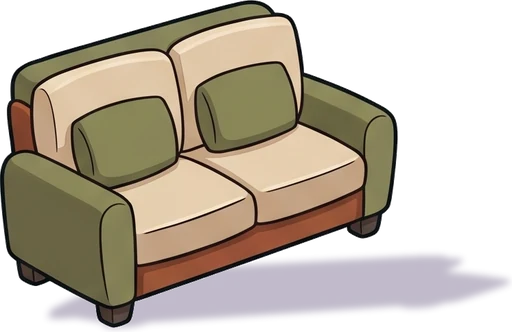
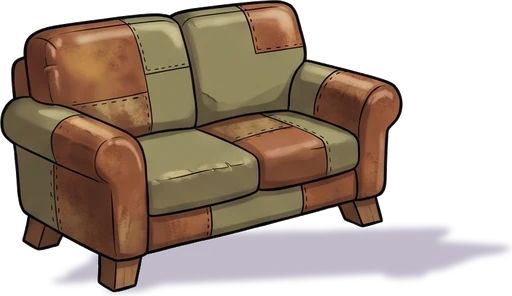
feat: Travel Journal room with the bed, wardrobe, desk and shelves drawn in; its sofa and armchair face the viewer
All six themes now have their furniture drawn in. The movable-furniture
tests that needed a movable corner room are removed, with cornerRoom.

diff --git a/src/data/roomPlacement.test.ts b/src/data/roomPlacement.test.ts
@@ -217,7 +217,7 @@ describe('a room with its furniture drawn in', () => {
       expect(piece.standAt.y, piece.id).toBeGreaterThan(lineYAt(baked.freeFloorEdge, piece.standAt.x));
       expect(piece.bubbleAt.y, piece.id).toBeLessThan(piece.standAt.y);
     });
-    expect(getFixedFurniture(getRoomGeometry('travel-journal'))).toEqual([]);
+    expect(getFixedFurniture(getRoomGeometry(undefined))).toEqual([]);
   });
 
   it('has no movable bed, wardrobe or desk, and no big piece can be turned', () => {
@@ -505,85 +505,6 @@ describe('mission objects and the desk', () => {
     });
   });
 
-  describe('turning big items to the other wall', () => {
-    const travel = { ...baseProfile, themeId: 'travel-journal' } as LearnerProfile;
-    const { cornerX } = getRoomGeometry('travel-journal');
-    const sofaOnRightWall = placeRoomItemAt(travel, 'room-sofa', { x: 75, y: 88 }, NOW);
-
-    it('marks only furniture with a front and a side as turnable', () => {
-      ['room-sofa', 'object:bed', 'object:wardrobe', 'object:desk'].forEach((key) =>
-        expect(findEntry(key === 'room-sofa' ? sofaOnRightWall : travel, key)?.canRotate, key).toBe(true)
-      );
-      expect(findEntry(travel, 'object:phone')?.canRotate).toBe(false);
-      expect(findEntry(placeRoomItemAt(travel, 'room-books', { x: 70, y: 40 }, NOW), 'room-books')?.canRotate).toBe(false);
-    });
-
-    it('knows which wall a big item stands against from where it stands', () => {
-      expect(findEntry(sofaOnRightWall, 'room-sofa')?.isOnLeftWall).toBe(false);
-      // by default the bed and the wardrobe stand along the left wall, the desk along the right one
-      expect(findEntry(travel, 'object:bed')?.isOnLeftWall).toBe(true);
-      expect(findEntry(travel, 'object:wardrobe')?.isOnLeftWall).toBe(true);
-      expect(findEntry(travel, 'object:desk')?.isOnLeftWall).toBe(false);
-    });
-
-    it('turns an item where it stands: only the picture changes wall, and turning twice turns it back', () => {
-      const before = findEntry(sofaOnRightWall, 'room-sofa')!;
-      const turned = findEntry(turnRoomItem(sofaOnRightWall, 'room-sofa', NOW), 'room-sofa')!;
-      expect(turned.isOnLeftWall).toBe(true);
-      expect(turned.point.x).toBeCloseTo(before.point.x);
-      expect(turned.point.x).toBeGreaterThan(cornerX);
-      const back = findEntry(turnRoomItem(turnRoomItem(sofaOnRightWall, 'room-sofa', NOW), 'room-sofa', NOW), 'room-sofa')!;
-      expect(back.isOnLeftWall).toBe(false);
-    });
-
-    it('never turns an item that is moved, even across the corner: only the learner turns it', () => {
-      const movedSofa = placeRoomItemAt(sofaOnRightWall, 'room-sofa', { x: 20, y: 92 }, NOW);
-      expect(findEntry(movedSofa, 'room-sofa')!.point.x).toBeLessThan(cornerX);
-      expect(findEntry(movedSofa, 'room-sofa')!.isOnLeftWall).toBe(false);
-      const movedDesk = moveRoomObject(travel, 'desk', { x: 20, y: 95 }, NOW);
-      expect(findEntry(movedDesk, 'object:desk')!.isOnLeftWall).toBe(false);
-      const turnedThenMoved = moveRoomObject(turnRoomItem(travel, 'object:desk', NOW), 'desk', { x: 85, y: 95 }, NOW);
-      expect(findEntry(turnedThenMoved, 'object:desk')!.isOnLeftWall).toBe(true);
-    });
-
-    it('keeps a turned item on the floor, below the baseboard', () => {
-      const geometry = getRoomGeometry('travel-journal');
-      ['room-sofa', 'object:bed', 'object:wardrobe', 'object:desk'].forEach((key) => {
-        const profile = turnRoomItem(key === 'room-sofa' ? sofaOnRightWall : travel, key, NOW);
-        const entry = findEntry(profile, key)!;
-        expect(entry.point.y, key).toBeGreaterThanOrEqual(floorEdgeY(geometry, entry.point.x));
-        expect(entry.item.slotKind, key).toBe('floor');
-      });
-    });
-
-    it('turns the desk with what lies on it', () => {
-      const turned = turnRoomItem(travel, 'object:desk', NOW);
-      const desk = findEntry(turned, 'object:desk')!;
-      expect(desk.isOnLeftWall).toBe(true);
-      const phone = findEntry(turned, 'object:phone')!;
-      expect(phone.item.slotKind).toBe('desk');
-      expect(Math.abs(phone.point.x - desk.point.x)).toBeLessThan(9);
-    });
-
-    it('leaves items that cannot turn, and unknown keys, unchanged', () => {
-      expect(turnRoomItem(travel, 'object:phone', NOW)).toBe(travel);
-      expect(turnRoomItem(travel, 'nope', NOW)).toBe(travel);
-    });
-  });
-
-  it('puts the book on the desk top when it is let go anywhere over the desk, even nearer the floor behind it', () => {
-    const profile = { ...baseProfile, themeId: 'travel-journal' } as LearnerProfile;
-    const layout = getRoomLayout(profile);
-    const top = getDeskTopPoint(layout.deskPoint, layout.geometry, layout.deskShape);
-    // over the back corner of the desk top, close to the baseboard behind the desk
-    const overBackCorner = { x: layout.deskPoint.x - 9, y: top.y - 6 };
-    const book = findEntry(moveRoomObject(profile, 'games-book', overBackCorner, NOW), 'object:games-book')!;
-    expect(book.item.slotKind).toBe('desk');
-    const [deskTop] = getSurfaces('desk', layout);
-    expect(isInConvexPolygon(deskTop.area!, book.point)).toBe(true);
-    expect(Math.abs(book.point.y - top.y)).toBeLessThan(8);
-  });
-
   it('lets small things stand anywhere on the drawn desk top, but not off its edges', () => {
     const profile = { ...baseProfile, themeId: 'travel-journal' } as LearnerProfile;
     const layout = getRoomLayout(profile);
@@ -593,22 +514,6 @@ describe('mission objects and the desk', () => {
     const offTheEdge = snapToSurface('desk', { x: deskTop.xMax + 10, y: deskTop.yMin - 10 }, { layout }).point;
     expect(isInConvexPolygon(deskTop.area!, offTheEdge)).toBe(true);
     expect(isInConvexPolygon(deskTop.outline!, offTheEdge)).toBe(true);
-  });
-
-  it('outlines the drop zone on the desk as the drawn desk top, turned the way the desk is turned', () => {
-    const profile = { ...baseProfile, themeId: 'travel-journal' } as LearnerProfile;
-    const outlineOf = (p: LearnerProfile) => getSurfaces('desk', getRoomLayout(p))[0].outline!;
-    const facingRight = outlineOf(profile);
-    const turned = turnRoomItem(profile, 'object:desk', NOW);
-    const facingLeft = outlineOf(turned);
-    const deskX = getRoomLayout(turned).deskPoint.x;
-    expect(facingRight).toHaveLength(4);
-    // the back corner of the top is toward the corner: left of the middle against the right wall, right of it when turned
-    expect(facingRight[1].x).toBeLessThan(getRoomLayout(profile).deskPoint.x);
-    expect(facingLeft[1].x).toBeGreaterThan(deskX);
-    const top = getDeskTopPoint(getRoomLayout(turned).deskPoint, getRoomGeometry('travel-journal'), getRoomLayout(turned).deskShape);
-    expect(Math.min(...facingLeft.map((c) => c.y))).toBeLessThan(top.y);
-    expect(Math.max(...facingLeft.map((c) => c.y))).toBeGreaterThan(top.y);
   });
 
   it('snaps to the nearest surface across several kinds', () => {

diff --git a/src/data/roomGeometry.ts b/src/data/roomGeometry.ts
@@ -247,78 +247,9 @@ export const LEGACY_GEOMETRY: RoomGeometry = {
   avatarHome: { x: 50, y: 68 },
 };
 
-interface CornerRoom {
-  cornerX: number;
-  /** The window with its curtains, as drawn in the room picture */
-  window: Box;
-  /** Baseboard y at the left edge, at the corner and at the right edge */
-  edge: [number, number, number];
-  /** The window sill line under the window */
-  sill: { xMin: number; xMax: number; y: number };
-}
-
 /** The floor runs to the bottom of the picture: feet can stand almost there. */
 const FLOOR_MAX_Y = 98;
-/** A hanging item is about this wide: its centre stays this far from the window's edge. */
-const WALL_ITEM_CLEARANCE = 5;
-const WALL_LEFT_X_MIN = 3;
-/** Narrower than this and the strip beside the window is no place to hang anything. */
-const WALL_LEFT_MIN_SPAN = 3;
-
-/** The strip of the left wall beside the window where wall items can hang, or null when there is none. */
-function getWallLeft(window: Box): Box | null {
-  const xMax = window.xMin - WALL_ITEM_CLEARANCE;
-  return xMax - WALL_LEFT_X_MIN >= WALL_LEFT_MIN_SPAN ? { xMin: WALL_LEFT_X_MIN, xMax, yMin: 10, yMax: 30 } : null;
-}
 const FLOOR_MARGIN_X = 2;
-/** How far (scene %) above the baseboard at the corner the shelf planks hang */
-const SHELF_HIGH_ABOVE_CORNER = 44;
-const SHELF_LOW_ABOVE_CORNER = 29;
-const BED_X = 21;
-const WARDROBE_FROM_CORNER = 11;
-
-/**
- * A corner room: shelves, the board and a hanging zone on the plain right wall, a hanging zone on
- * the left wall, the sill under the window, big furniture standing along the walls.
- */
-function cornerRoom({ cornerX, window, edge: [yLeft, yCorner, yRight], sill }: CornerRoom): RoomGeometry {
-  const floorEdge = [
-    { x: 0, y: yLeft },
-    { x: cornerX, y: yCorner },
-    { x: 100, y: yRight },
-  ];
-  const partial = { floorEdge } as RoomGeometry;
-  const edgeAt = (x: number) => floorEdgeY(partial, x);
-  const stand = (x: number, depth: number): ScenePoint => ({ x, y: Math.min(FLOOR_MAX_Y - 2, edgeAt(x) + depth) });
-  const shelfX = { xMin: cornerX + 4, xMax: cornerX + 22 };
-  const deskX = cornerX + 19;
-  return {
-    cornerX,
-    floorEdge,
-    floorMinY: Math.min(yLeft, yCorner, yRight) + FLOOR_EDGE_CLEARANCE,
-    floorMaxY: FLOOR_MAX_Y,
-    floorXMin: FLOOR_MARGIN_X,
-    floorXMax: 100 - FLOOR_MARGIN_X,
-    window,
-    wallLeft: getWallLeft(window),
-    // The shelves take the wall high up by the corner: things hang beside them, under the board
-    wallRight: { xMin: cornerX + 26, xMax: 95, yMin: 40, yMax: 46 },
-    board: { xMin: cornerX + 26, xMax: 95, yMin: 16, yMax: 30 },
-    shelves: [
-      { id: 'shelf-high', ...shelfX, y: yCorner - SHELF_HIGH_ABOVE_CORNER },
-      { id: 'shelf-low', ...shelfX, y: yCorner - SHELF_LOW_ABOVE_CORNER },
-      { id: 'window-sill', ...sill },
-    ],
-    // The right wall is only about 40% wide: the desk takes it, the bed and the wardrobe stand along the left wall
-    defaults: {
-      desk: stand(deskX, 14),
-      bed: stand(BED_X, 12),
-      wardrobe: stand(cornerX - WARDROBE_FROM_CORNER, 12),
-      gamesBook: stand(cornerX + 8, 24),
-    },
-    avatarHome: stand(cornerX - 6, 26),
-  };
-}
 
 interface BakedRoom {
   cornerX: number;
@@ -639,7 +570,63 @@ const ROOM_GEOMETRY: Record<ThemeId, RoomGeometry> = {
     gamesBook: { x: 55, y: 90 },
     avatarHome: { x: 50, y: 92 },
   }),
-  'travel-journal': cornerRoom({ cornerX: 55.5, window: { xMin: 8, xMax: 50, yMin: 2, yMax: 66 }, edge: [89, 63.5, 84], sill: { xMin: 25, xMax: 47, y: 56 } }),
+  'travel-journal': bakedRoom({
+    cornerX: 49.8,
+    window: { xMin: 22.5, xMax: 45.5, yMin: 14.5, yMax: 49 },
+    edge: [68.8, 51.8, 72],
+    wallLeft: null,
+    wallRight: { xMin: 53, xMax: 65, yMin: 23, yMax: 33 },
+    board: { xMin: 69, xMax: 78, yMin: 14, yMax: 20 },
+    shelves: [
+      { id: 'shelf-high', xMin: 67.5, xMax: 85, y: 27.2, tilt: 0.03 },
+      { id: 'shelf-low', xMin: 76, xMax: 95.5, y: 37.8, tilt: 0.06 },
+      { id: 'window-sill', xMin: 29, xMax: 40, y: 41.9, tilt: -0.05 },
+    ],
+    baked: {
+      roomPicture: '/art/travel-journal/room-baked.webp',
+      pieces: [
+        {
+          id: 'wardrobe',
+          tapArea: [{ x: 1.5, y: 28 }, { x: 7, y: 26.6 }, { x: 22.8, y: 26.8 }, { x: 22.8, y: 72.3 }, { x: 8.2, y: 78.3 }, { x: 6, y: 78.3 }, { x: 1.5, y: 73 }],
+          standAt: { x: 16, y: 84 },
+          bubbleAt: { x: 12, y: 24 },
+        },
+        {
+          id: 'bed',
+          tapArea: [{ x: 23, y: 52 }, { x: 26, y: 49.5 }, { x: 42, y: 47 }, { x: 48.8, y: 44 }, { x: 49.2, y: 38.8 }, { x: 50.5, y: 38.5 }, { x: 55, y: 39.5 }, { x: 62, y: 40.5 }, { x: 62, y: 59.5 }, { x: 35.3, y: 71.8 }, { x: 32.6, y: 71.8 }, { x: 32.6, y: 68.5 }, { x: 23, y: 64.5 }],
+          standAt: { x: 42, y: 79 },
+          bubbleAt: { x: 55, y: 35 },
+        },
+        {
+          id: 'desk',
+          tapArea: [{ x: 69.8, y: 51.7 }, { x: 77.9, y: 48.2 }, { x: 98, y: 52.8 }, { x: 98, y: 55 }, { x: 96.8, y: 72.5 }, { x: 91, y: 77.5 }, { x: 89, y: 77.5 }, { x: 72.5, y: 69.5 }, { x: 70.8, y: 69.5 }, { x: 69.8, y: 53.5 }],
+          standAt: { x: 80, y: 85 },
+          bubbleAt: { x: 88, y: 46 },
+        },
+      ],
+      freeFloorEdge: [
+        { x: 0, y: 72.5 },
+        { x: 1.5, y: 72.5 },
+        { x: 6, y: 78.5 },
+        { x: 8.2, y: 78.5 },
+        { x: 22.8, y: 72.5 },
+        { x: 23.4, y: 64.5 },
+        { x: 32.6, y: 72 },
+        { x: 35.3, y: 72 },
+        { x: 60.5, y: 59.3 },
+        { x: 61, y: 56.4 },
+        { x: 70.3, y: 60.3 },
+        { x: 70.8, y: 69.6 },
+        { x: 89, y: 77.6 },
+        { x: 91, y: 77.6 },
+        { x: 96.8, y: 72.6 },
+        { x: 100, y: 72.4 },
+      ],
+      deskTop: [{ x: 70.5, y: 51.8 }, { x: 77.9, y: 48.8 }, { x: 97, y: 53 }, { x: 90.7, y: 56.8 }],
+    },
+    gamesBook: { x: 55, y: 90 },
+    avatarHome: { x: 50, y: 92 },
+  }),
 };
 
 /** The room of a theme; the original room for a missing or unknown theme. */

diff --git a/src/components/room/RoomScene.test.tsx b/src/components/room/RoomScene.test.tsx
@@ -1,23 +1,12 @@
 import { render, screen } from '@testing-library/react';
 import { describe, expect, it } from 'vitest';
 import { getRoom } from '../../data/room';
-import { getPlacedRoomEntries, placeRoomItemAt, turnRoomItem } from '../../data/roomPlacement';
+import { getPlacedRoomEntries } from '../../data/roomPlacement';
 import { makeProfile } from '../../test/fixtures';
 import { AVATAR_HOME } from './roomLayout';
 import { RoomScene } from './RoomScene';
 
-const NOW = new Date('2026-10-29T10:00:00.000Z');
-
-/** A room whose furniture is movable (not drawn into the room picture). */
 const travelProfile = () => makeProfile({ themeId: 'travel-journal' });
-
-const profileWithSofa = () =>
-  placeRoomItemAt(
-    makeProfile({ themeId: 'travel-journal', unlockedRewardIds: ['room-sofa'], room: { ...getRoom(makeProfile()), placements: {} } }),
-    'room-sofa',
-    { x: 75, y: 88 },
-    NOW
-  );
 
 function renderScene(profile: ReturnType<typeof makeProfile>, moveRequestKey: string | null = null) {
   return render(
@@ -33,43 +22,10 @@ function renderScene(profile: ReturnType<typeof makeProfile>, moveRequestKey: st
   );
 }
 
-/** The picture an item's button shows. */
-function pictureOf(name: string): string | null {
-  return screen.getByRole('button', { name }).querySelector('img')?.getAttribute('src') ?? null;
-}
-
-describe('RoomScene turned items', () => {
-  it('shows the right-wall sofa picture, and the left-wall picture once the sofa is turned to the other wall', () => {
-    const profile = profileWithSofa();
-    const { unmount } = renderScene(profile);
-    expect(pictureOf('sofa · ספה')).toBe('/art/room/travel-journal/room-sofa.webp');
-    unmount();
-
-    renderScene(turnRoomItem(profile, 'room-sofa', NOW));
-    expect(pictureOf('sofa · ספה')).toBe('/art/room/travel-journal/room-sofa-b.webp');
-  });
-});
-
 describe('RoomScene moving the games book', () => {
   it('shows both the floor and the desk top as places for the book', () => {
     const { container } = renderScene(travelProfile(), 'object:games-book');
     expect(container.querySelectorAll('[data-zone]')).toHaveLength(2);
-  });
-
-  it('shows only the floor as a place for the bed', () => {
-    const { container } = renderScene(travelProfile(), 'object:bed');
-    expect(container.querySelectorAll('[data-zone]')).toHaveLength(1);
-  });
-
-  it('outlines a corner room floor along its baseboard, down to the bottom of the picture', () => {
-    const { container } = renderScene(travelProfile(), 'object:bed');
-    const outline = container.querySelector('[data-zone="floor"] polygon')?.getAttribute('points') ?? '';
-    const points = outline.split(' ').map((pair) => pair.split(',').map(Number));
-    expect(points.length).toBeGreaterThan(10);
-    expect(points[points.length - 1]).toEqual([0, 100]);
-    // the baseboard is highest at the corner, so the outline is not a level line
-    const ys = points.slice(0, -2).map(([, y]) => y);
-    expect(Math.max(...ys) - Math.min(...ys)).toBeGreaterThan(5);
   });
 });
 

diff --git a/src/data/roomArtManifest.ts b/src/data/roomArtManifest.ts
@@ -218,10 +218,10 @@ export const ROOM_ART: Record<string, Record<string, RoomArtSprite>> = {
     'furniture-shelf-low': { aspect: 2.1245, left: 0.0, right: 1.0, top: 0.0, bottom: 1.0, slope: -0.297 },
     'furniture-sill': { aspect: 1.9339, left: 0.0, right: 1.0, top: 0.0, bottom: 1.0, slope: 0.369 },
     'furniture-board': { aspect: 0.8596, left: 0.0, right: 1.0, top: 0.0, bottom: 1.0, slope: -0.378 },
-    'room-sofa': { aspect: 1.5851, left: 0.0, right: 0.7562, top: 0.0, bottom: 0.9876, slope: 0.333 },
-    'room-sofa-b': { aspect: 1.5422, left: 0.0, right: 0.7775, top: 0.0, bottom: 0.9876, slope: -0.335 },
-    'room-chair': { aspect: 1.3438, left: 0.0, right: 0.6756, top: 0.0, bottom: 0.9865, slope: 0.299 },
-    'room-chair-b': { aspect: 1.2427, left: 0.0, right: 0.7306, top: 0.0, bottom: 0.9865, slope: -0.345 },
+    'room-sofa': { aspect: 1.7297, left: 0.0, right: 0.7868, top: 0.0, bottom: 0.9876, slope: 0.0 },
+    'room-sofa-b': { aspect: 1.7297, left: 0.0, right: 0.7868, top: 0.0, bottom: 0.9876, slope: 0.0 },
+    'room-chair': { aspect: 1.3299, left: 0.0, right: 0.7528, top: 0.0, bottom: 0.9872, slope: 0.0 },
+    'room-chair-b': { aspect: 1.3299, left: 0.0, right: 0.7528, top: 0.0, bottom: 0.9872, slope: 0.0 },
     'object-bed': { aspect: 1.6, left: 0.0, right: 0.7224, top: 0.0, bottom: 0.9881, slope: 0.417 },
     'object-bed-b': { aspect: 1.4183, left: 0.0, right: 0.8154, top: 0.0, bottom: 0.9881, slope: -0.424 },
     'object-wardrobe': { aspect: 1.1204, left: 0.0, right: 0.5755, top: 0.0, bottom: 0.9903, slope: 0.306 },

diff --git a/scripts/art/process_room_art.py b/scripts/art/process_room_art.py
@@ -85,6 +85,8 @@ FRONT_PICKS = {
     'focus-desk/room-chair': 2,
     'urban-night/room-sofa': 3,
     'urban-night/room-chair': 4,
+    'travel-journal/room-sofa': 4,
+    'travel-journal/room-chair': 3,
 }
 SHADOW_SQUASH = 0.22  # the shadow's height as a share of the object's (light from high up on the left)
 SHADOW_LEAN = 0.55  # pixels to the right per pixel of the object's height

diff --git a/docs/architecture.md b/docs/architecture.md
@@ -195,7 +195,7 @@ Each learning mission consists of 5 pedagogical drill stages:
 
 ### 4.12. My English Room (`room.ts`, `wardrobe.ts`, `roomRewards.ts`, `roomActivities.ts`, `voiceMessages.ts`, `dreamJournal.ts`, `wordGames.ts`, `stickers.ts`, `components/room/`)
 - The "החדר שלי" home dock tile opens the room full-screen; its dot shows while an earned item waits to be placed.
-- **The room** (`RoomScene`): a drawn wall/floor scene, drawn furniture (`public/art/room/*.webp`: two shelves, the window sill, the desk and the sticker board, made with `scripts/art/renderRoomFurniture.mjs` and `scripts/art/process_room_furniture.py`; `FURNITURE_PIECES` in `roomLayout.ts`) and four mission objects: 🛏 bed, 📱 phone, 🚪 wardrobe, 📖 Games Book. **Free placement** (`data/roomPlacement.ts`): items stand on *surfaces* (`ROOM_SURFACES`: wall-left/right, board, shelf-high, shelf-low, window-sill, desk-top, floor), each for one `slotKind`. A point is the item's feet (shelf, desk, floor) or centre (wall, board), in scene %. `snapToSurface` puts any point on the nearest surface of the item's kind, `findFreePoint` moves a drop off other items, floor items scale with depth (`getDepthScale`), and a soft shadow sits under standing items. **Moving**: drag with mouse or touch (`useRoomItemDrag`, 6 px threshold so a tap still taps; the surfaces show as dashed zones while dragging), or with the keyboard: focus an item or press "הזזה", arrows move, Up/Down or PageUp/PageDown change surface, Enter drops, Esc cancels, with a Hebrew live announcement. **Everything is movable**: the mission objects (bed, wardrobe, phone, games book) and the desk are entries too (key `object:<id>`, `room.positions`; `moveRoomObject` / `moveRoomEntry`, defaults in `getPlacedRoomEntries`). Big furniture (bed, wardrobe, desk, sofa) stands on the floor surface (feet at the floor depth, width-aware edge and overlap rules, `getItemWidth` gives believable relative sizes), and the desk top is a surface that follows the desk (`getRoomLayout`, `getDeskTopPoint`): moving the desk carries the phone and the small items on it. The icons have transparent padding, so the scene anchors an item's feet and its contact shadow on the drawn object's visible bottom (`data/roomIconBounds.ts`, generated by `python scripts/art/measure_icon_bounds.py` from the icon alpha; re-run it when a room item gets a new icon): the shadow is an ellipse 70% of the footprint, centred on the feet. z-order follows the feet's y, with desk items above the desk. Tapping the stickers button with no stickers owned opens `StickersLockedSheet` (gendered Hebrew from `getHebrewCopy`, read aloud for grades 1–2, button to the shop; its two lines are in the Hebrew TTS corpus, so run `npm run tts:render:he -- submit` / `collect` to give them clips, until then the online voice reads them); an opened panel scrolls into view. A new item is chosen in the inventory, a zone is tapped, and the item is named as before. **Corner rooms** (`data/roomGeometry.ts`): each theme has a corner room picture, `public/art/<theme>/room-corner.webp` (`art.roomCorner`, 4:3, drawn by the pilot script `scripts/art/renderRoomPilot.mjs`), and a `RoomGeometry` measured on it: the corner x, the baseboard line (`floorEdge`, not level), the zones for hanging items, the shelf lines, sill and sticker board (right wall), and where the bed, wardrobe, desk and book stand until moved. `getRoomLayout(profile)` carries it (`layout.geometry`), `getSurfaces` builds the surfaces from it (floor items stay below the baseboard: `RoomSurface.minYAt`), `getDepthScale` and `getDeskTopPoint` take it, and saved positions are pulled back inside the room on read (`settle`; the original room, `LEGACY_GEOMETRY`, keeps points exactly as saved and is the fallback for an unknown theme). The first front-on pictures (`room-bg.webp`) stay in `public/art` unused. Furniture sprites (`getFurniturePieces`: the two shelves and the board, from the themed pictures in `public/art/room/<theme>/`; no sill is drawn, the room pictures have their own window ledge) and the item pictures come from `ROOM_ART` (`data/roomArt.ts`, generated by `scripts/art/process_room_art.py`; drawn with `scripts/art/renderRoomArt.mjs`). The games book may also lie on the desk top (`getObjectMoveKinds`, `OBJECT_EXTRA_KINDS`: an object with extra kinds ends up on whichever of its surfaces the drop is nearest, its kind follows where it stands, and the drag zones show both); what lies on the desk follows the desk top exactly when the desk moves. **Turning to the other wall** (`turnRoomItem`, `getOtherWallPoint`): sofa, chair, bed, wardrobe and desk (`ROTATABLE_KEYS`) stand against a wall, and their picture follows the wall (`PlacedRoomEntry.isOnLeftWall`: left of the geometry's `cornerX`): each has a right-wall picture and a second, left-wall picture (`<id>-b`, drawn the other way round with its shadow still on the right). Dragging such an item across the corner switches its picture; the icon-only 🔄 button moves it to the matching spot against the other wall (same distance along the wall and from the baseboard), so it never floats away from the wall it was against. The desk takes what lies on it along. The button sits next to move / put away (also after tapping a bed, wardrobe or desk) and has no visible Hebrew text, so nothing new is read aloud. Nothing about the turn is stored: the wall follows from the item's position. Wall pictures, board stickers and things on the sill are drawn for the right wall and mirrored on the left (`getRoomSprite`'s `canMirror`); floor and desk items with a baked shadow are never mirrored. Per-theme colours stay in `roomLayout.ts`. The equipped shop avatar walks to whatever the learner taps. **Rooms with the furniture drawn in** (Starlight, Cozy Studio, Neon Pop, Focus Desk and Urban Night so far; the other themes switch one by one, then the movable-furniture code goes): the room picture `public/art/<theme>/room-baked.webp` has the bed, wardrobe, desk and both shelves drawn in, in the same places in every theme (drawn with `scripts/art/renderBakedRoom.mjs`: a 2 × 2 sheet of takes, a pick, small fixes with the pick as reference, `batch <theme>` for several takes at half price; cut to 4:3 by `scripts/art/process_baked_room.py`). `RoomGeometry.baked` holds what was measured on it: for each piece a tap area, a spot for the avatar and a spot for its name (`getFixedFurniture`; RoomScene draws an invisible, focusable button over each piece, RoomScreen walks the avatar there and opens its activity), the line along the front of the furniture that floor items stay in front of across their whole width (`freeFloorEdge`), the drawn desk top (`deskTop`) and the shelf lines with their own tilt. In such a room the bed, wardrobe and desk are not entries (no move, no turn), no piece turns, and positions or facings saved for them stay in the profile unused. There is no sticker board: stickers hang on the free walls or stand on the drawn shelves (`getSurfaces('board')`). The sofa and armchair face the viewer (`renderRoomArt.mjs front`, a sheet of takes drawn with the room as reference; the picked take is named in `FRONT_PICKS` in `process_room_art.py`, level, with a made shadow) and move on the free floor.
+- **The room** (`RoomScene`): a drawn wall/floor scene, drawn furniture (`public/art/room/*.webp`: two shelves, the window sill, the desk and the sticker board, made with `scripts/art/renderRoomFurniture.mjs` and `scripts/art/process_room_furniture.py`; `FURNITURE_PIECES` in `roomLayout.ts`) and four mission objects: 🛏 bed, 📱 phone, 🚪 wardrobe, 📖 Games Book. **Free placement** (`data/roomPlacement.ts`): items stand on *surfaces* (`ROOM_SURFACES`: wall-left/right, board, shelf-high, shelf-low, window-sill, desk-top, floor), each for one `slotKind`. A point is the item's feet (shelf, desk, floor) or centre (wall, board), in scene %. `snapToSurface` puts any point on the nearest surface of the item's kind, `findFreePoint` moves a drop off other items, floor items scale with depth (`getDepthScale`), and a soft shadow sits under standing items. **Moving**: drag with mouse or touch (`useRoomItemDrag`, 6 px threshold so a tap still taps; the surfaces show as dashed zones while dragging), or with the keyboard: focus an item or press "הזזה", arrows move, Up/Down or PageUp/PageDown change surface, Enter drops, Esc cancels, with a Hebrew live announcement. **Everything is movable**: the mission objects (bed, wardrobe, phone, games book) and the desk are entries too (key `object:<id>`, `room.positions`; `moveRoomObject` / `moveRoomEntry`, defaults in `getPlacedRoomEntries`). Big furniture (bed, wardrobe, desk, sofa) stands on the floor surface (feet at the floor depth, width-aware edge and overlap rules, `getItemWidth` gives believable relative sizes), and the desk top is a surface that follows the desk (`getRoomLayout`, `getDeskTopPoint`): moving the desk carries the phone and the small items on it. The icons have transparent padding, so the scene anchors an item's feet and its contact shadow on the drawn object's visible bottom (`data/roomIconBounds.ts`, generated by `python scripts/art/measure_icon_bounds.py` from the icon alpha; re-run it when a room item gets a new icon): the shadow is an ellipse 70% of the footprint, centred on the feet. z-order follows the feet's y, with desk items above the desk. Tapping the stickers button with no stickers owned opens `StickersLockedSheet` (gendered Hebrew from `getHebrewCopy`, read aloud for grades 1–2, button to the shop; its two lines are in the Hebrew TTS corpus, so run `npm run tts:render:he -- submit` / `collect` to give them clips, until then the online voice reads them); an opened panel scrolls into view. A new item is chosen in the inventory, a zone is tapped, and the item is named as before. **Corner rooms** (`data/roomGeometry.ts`): each theme has a corner room picture, `public/art/<theme>/room-corner.webp` (`art.roomCorner`, 4:3, drawn by the pilot script `scripts/art/renderRoomPilot.mjs`), and a `RoomGeometry` measured on it: the corner x, the baseboard line (`floorEdge`, not level), the zones for hanging items, the shelf lines, sill and sticker board (right wall), and where the bed, wardrobe, desk and book stand until moved. `getRoomLayout(profile)` carries it (`layout.geometry`), `getSurfaces` builds the surfaces from it (floor items stay below the baseboard: `RoomSurface.minYAt`), `getDepthScale` and `getDeskTopPoint` take it, and saved positions are pulled back inside the room on read (`settle`; the original room, `LEGACY_GEOMETRY`, keeps points exactly as saved and is the fallback for an unknown theme). The first front-on pictures (`room-bg.webp`) stay in `public/art` unused. Furniture sprites (`getFurniturePieces`: the two shelves and the board, from the themed pictures in `public/art/room/<theme>/`; no sill is drawn, the room pictures have their own window ledge) and the item pictures come from `ROOM_ART` (`data/roomArt.ts`, generated by `scripts/art/process_room_art.py`; drawn with `scripts/art/renderRoomArt.mjs`). The games book may also lie on the desk top (`getObjectMoveKinds`, `OBJECT_EXTRA_KINDS`: an object with extra kinds ends up on whichever of its surfaces the drop is nearest, its kind follows where it stands, and the drag zones show both); what lies on the desk follows the desk top exactly when the desk moves. **Turning to the other wall** (`turnRoomItem`, `getOtherWallPoint`): sofa, chair, bed, wardrobe and desk (`ROTATABLE_KEYS`) stand against a wall, and their picture follows the wall (`PlacedRoomEntry.isOnLeftWall`: left of the geometry's `cornerX`): each has a right-wall picture and a second, left-wall picture (`<id>-b`, drawn the other way round with its shadow still on the right). Dragging such an item across the corner switches its picture; the icon-only 🔄 button moves it to the matching spot against the other wall (same distance along the wall and from the baseboard), so it never floats away from the wall it was against. The desk takes what lies on it along. The button sits next to move / put away (also after tapping a bed, wardrobe or desk) and has no visible Hebrew text, so nothing new is read aloud. Nothing about the turn is stored: the wall follows from the item's position. Wall pictures, board stickers and things on the sill are drawn for the right wall and mirrored on the left (`getRoomSprite`'s `canMirror`); floor and desk items with a baked shadow are never mirrored. Per-theme colours stay in `roomLayout.ts`. The equipped shop avatar walks to whatever the learner taps. **Rooms with the furniture drawn in** (all six themes; the movable-furniture code still in `roomPlacement.ts` only runs for the fallback room and goes next): the room picture `public/art/<theme>/room-baked.webp` has the bed, wardrobe, desk and both shelves drawn in, in the same places in every theme (drawn with `scripts/art/renderBakedRoom.mjs`: a 2 × 2 sheet of takes, a pick, small fixes with the pick as reference, `batch <theme>` for several takes at half price; cut to 4:3 by `scripts/art/process_baked_room.py`). `RoomGeometry.baked` holds what was measured on it: for each piece a tap area, a spot for the avatar and a spot for its name (`getFixedFurniture`; RoomScene draws an invisible, focusable button over each piece, RoomScreen walks the avatar there and opens its activity), the line along the front of the furniture that floor items stay in front of across their whole width (`freeFloorEdge`), the drawn desk top (`deskTop`) and the shelf lines with their own tilt. In such a room the bed, wardrobe and desk are not entries (no move, no turn), no piece turns, and positions or facings saved for them stay in the profile unused. There is no sticker board: stickers hang on the free walls or stand on the drawn shelves (`getSurfaces('board')`). The sofa and armchair face the viewer (`renderRoomArt.mjs front`, a sheet of takes drawn with the room as reference; the picked take is named in `FRONT_PICKS` in `process_room_art.py`, level, with a made shadow) and move on the free floor.
 - **Mission objects** show a "coming soon" bubble with their activity until later phases ship.
 - **Items**: 20 room items (`ROOM_ITEMS`) plus the shop decor lamp and the 3 shop stickers (`SHOP_ROOM_ITEMS`). Every learner starts with the 🪴 plant. Ownership reuses `unlockedRewardIds`.
 - **Earning**: a mission's *first* 3-star result awards the next unowned item in `ROOM_REWARD_ORDER` (`roomRewards.ts`), which alternates room decor and wardrobe items. The victory screen previews it and the dashboard shows a toast.
